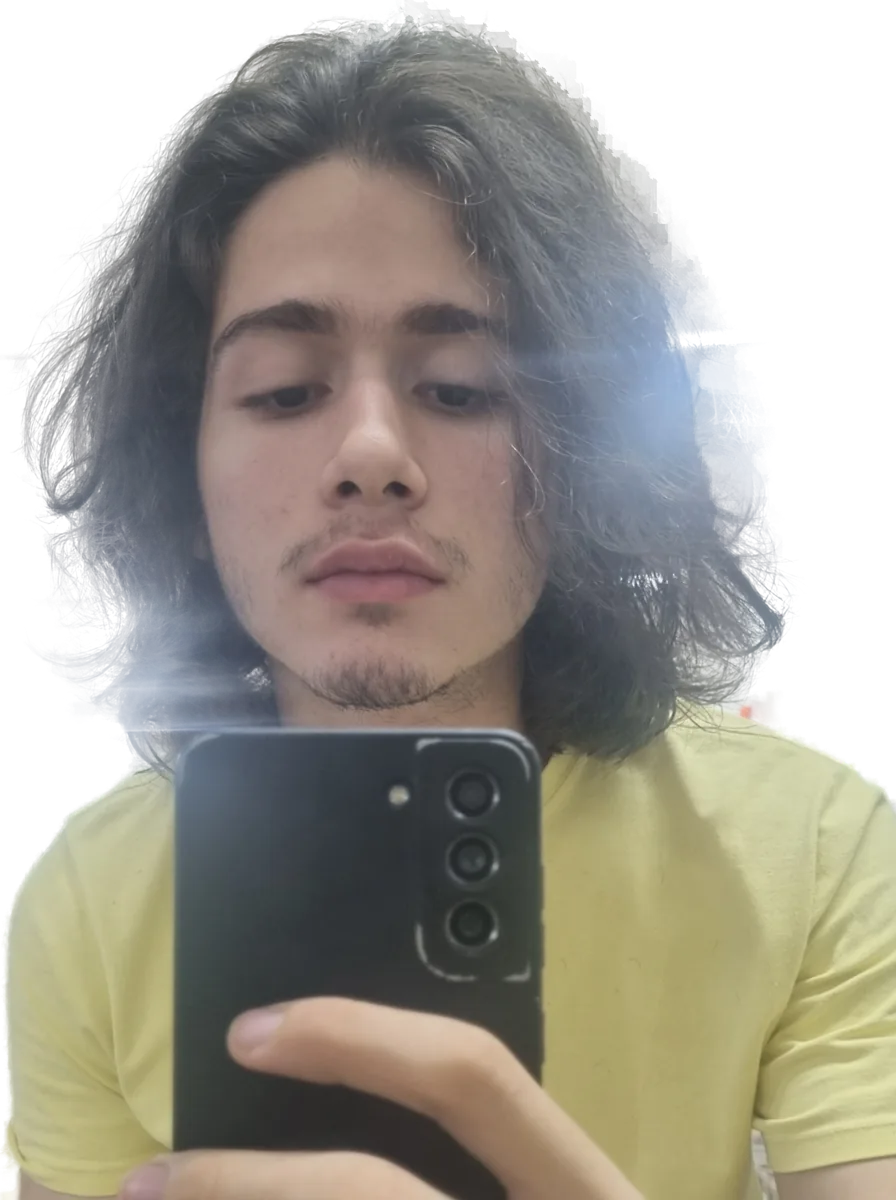
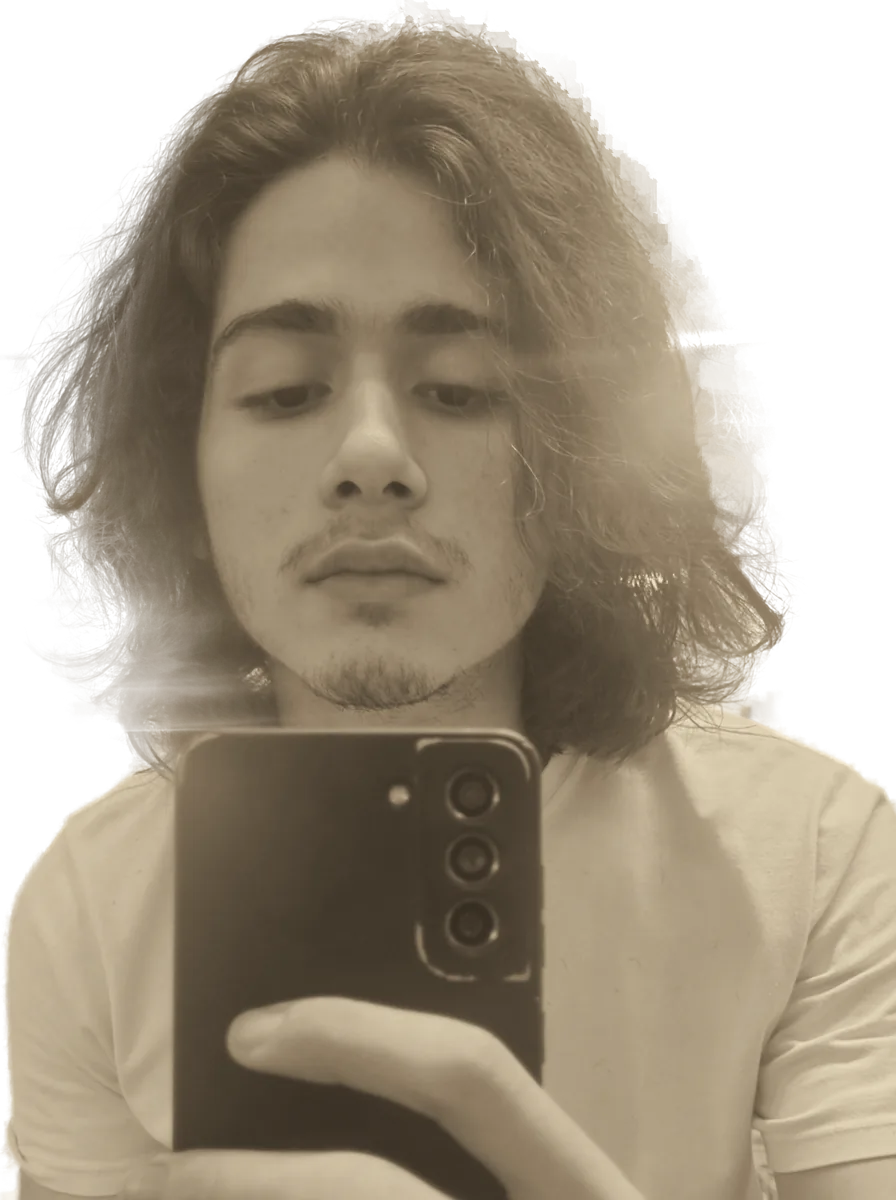
drift on the main clickable pieces; sepia baked into the portrait
- slower, wider drift (1.6-1.9s, up to 1.4px) only on nav cells, planets, project/post names and area filters; underlined links stay still; locks still on hover/focus
- npm run foto bakes the sepia tone into the webp: a CSS filter on a shaking image made Chromium stop painting it

diff --git a/src/styles/global.css b/src/styles/global.css
@@ -109,24 +109,61 @@ body::after {
    (title, HUD, picture), never on text people read. Off with reduced motion. */
 @media (prefers-reduced-motion: no-preference) {
   .jitter { animation: jitter 0.42s steps(1, end) infinite; }
-  .jitter.slow { animation-duration: 0.9s; }
-  .jitter.alt { animation-name: jitter-alt; animation-duration: 0.57s; }
+  .jitter.slow { animation-duration: 0.6s; }
+  .jitter.alt { animation-name: jitter-alt; animation-duration: 0.3s; }
 }
 @keyframes jitter {
   0%   { translate: 0 0; }
-  14%  { translate: 0.6px -0.4px; }
-  29%  { translate: -0.5px 0.3px; }
-  43%  { translate: 0.3px 0.6px; }
-  57%  { translate: -0.7px -0.2px; }
-  71%  { translate: 0.4px 0.2px; }
-  86%  { translate: -0.2px -0.6px; }
+  14%  { translate: 0.3px -0.2px; }
+  29%  { translate: -0.25px 0.15px; }
+  43%  { translate: 0.15px 0.3px; }
+  57%  { translate: -0.35px -0.1px; }
+  71%  { translate: 0.2px 0.1px; }
+  86%  { translate: -0.1px -0.3px; }
 }
 @keyframes jitter-alt {
   0%   { translate: 0 0; }
-  20%  { translate: -0.6px 0.2px; }
-  40%  { translate: 0.5px -0.5px; }
-  60%  { translate: -0.3px 0.5px; }
-  80%  { translate: 0.7px 0.1px; }
+  20%  { translate: -0.3px 0.1px; }
+  40%  { translate: 0.25px -0.25px; }
+  60%  { translate: -0.15px 0.25px; }
+  80%  { translate: 0.35px 0.05px; }
+}
+
+/* ── "you can press this" ───────────────────────────────────
+   Only the main clickable pieces that have no underline (nav cells, planets,
+   project and post names, area filters) drift slower and a bit wider than the
+   decorative jitter. Underlined links already say "click me" and stay still.
+   When the pointer or keyboard focus reaches a piece, it locks still. */
+nav a, .planet, .row h3 a, .list h2 a, .filters button { display: inline-block; }
+@media (prefers-reduced-motion: no-preference) {
+  nav a, .planet, .row h3 a, .list h2 a, .filters button {
+    animation: drift 1.6s steps(1, end) infinite;
+  }
+  nav li:nth-child(even) a, .row:nth-child(even) h3 a, .list li:nth-child(even) h2 a,
+  .filters button:nth-child(even), .planet:nth-of-type(even) {
+    animation-name: drift-alt; animation-duration: 1.9s;
+  }
+  :is(nav a, .planet, .row h3 a, .list h2 a, .filters button):is(:hover, :focus-visible) {
+    animation: none;
+  }
+}
+@keyframes drift {
+  0%   { translate: 0 0; }
+  12%  { translate: 1.2px -0.8px; }
+  25%  { translate: -1px 0.6px; }
+  37%  { translate: 0.5px 1.3px; }
+  50%  { translate: -1.4px -0.4px; }
+  62%  { translate: 0.9px 0.3px; }
+  75%  { translate: -0.4px -1.2px; }
+  87%  { translate: 1.3px 0.9px; }
+}
+@keyframes drift-alt {
+  0%   { translate: 0 0; }
+  16%  { translate: -1.3px 0.4px; }
+  33%  { translate: 1px -1px; }
+  50%  { translate: -0.6px 1.2px; }
+  66%  { translate: 1.4px 0.2px; }
+  83%  { translate: -0.9px -0.9px; }
 }
 
 @media print { body::before, body::after { display: none; } }
